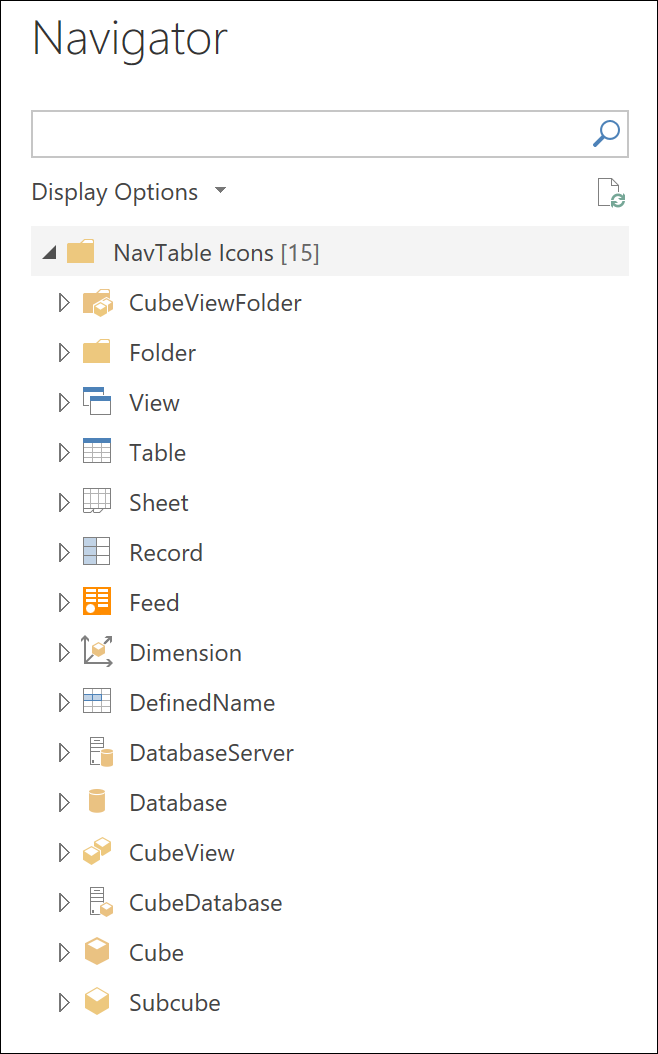
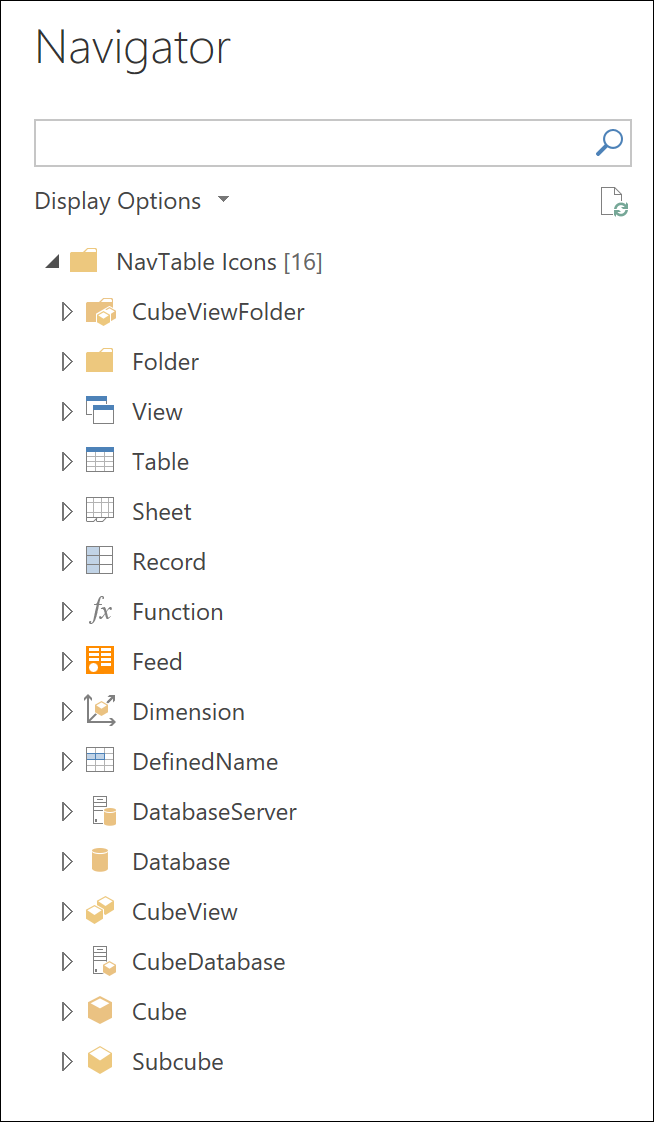
added missing item kind (function)

Changed region(s): [[0.0306, 0.0911, 0.9786, 0.9715], [0.0306, 0.0, 0.367, 0.0607]]

diff --git a/docs/nav-tables.md b/docs/nav-tables.md
@@ -71,6 +71,7 @@ Each of the following item kind values provide a different icon in the navigatio
 * Dimension
 * Table
 * Folder
+* Function
 * View
 * Sheet
 * Subcube
